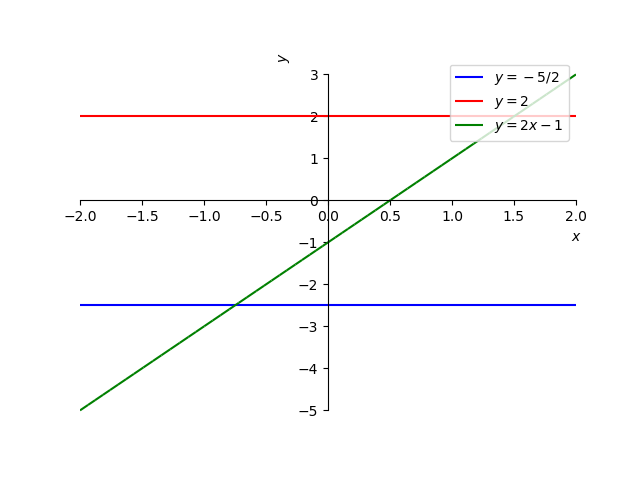
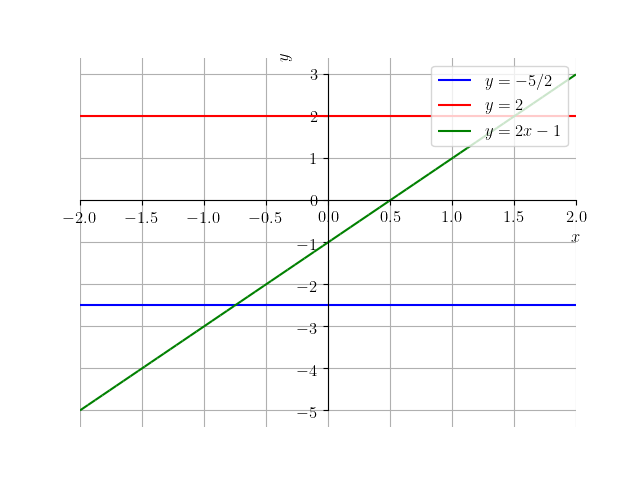
*: material sobre função afim

diff --git a/src/PreCalculo/cap_funcao/cap_funcao.tex b/src/PreCalculo/cap_funcao/cap_funcao.tex
@@ -418,7 +418,7 @@ sendo $m$ e $b$ parâmetros\footnote{números reais.} dados. O parâmetro $m$ é
 
 Quando $m=0$, temos uma \emph{função constante} $f(x) = b$. Esta tem domínio $(-\infty, \infty)$ e imagem $\{b\}$. Quando $b=0$, temos uma \pmb{função linear} $f(x)=mx$, cujo domínio é $(-\infty, \infty)$ e imagem é $(-\infty, \infty)$.
 
-Por outro lado, toda função linear com $m\neq 0$ tem $(-\infty, \infty)$ como domínio e imagem.
+De forma geral, toda função linear com $m\neq 0$ tem $(-\infty, \infty)$ como domínio e imagem.
 
 \begin{ex}\label{ex:funafim}
   A Figura \ref{fig:ex_funafim} mostra esboços dos gráficos das funções afins $f(x)=-5/2$, $f(x)=2$ e $f(x)=2x-1$.
@@ -431,16 +431,25 @@ Por outro lado, toda função linear com $m\neq 0$ tem $(-\infty, \infty)$ como 
   \end{figure}
 
   \ifispython
-  Com o \sympy, podemos plotar os gráficos destas funções com os seguintes comandos:
-\begin{verbatim}
-plot(-5/2,(x,-2,2))
-plot(2,(x,-2,2))
-plot(2*x-1,(x,-2,2))
-\end{verbatim}
+  Com o {\sympy}, podemos plotar o gráfico mostrado na Figura \ref{fig:ex_funafim} com o seguinte código:
+  \begin{lstlisting}
+    from sympy import *
+    x = Symbol('x')
+    p = plot(-5/2, (x,-2,2), line_color="blue", show=False)
+    q = plot(2, (x,-2,2), line_color="red", show=False)
+    p.extend(q)
+    q = plot(2*x-1, (x,-2,2), line_color="green", show=False)
+    p.extend(q)
+    p[0].label = "$y=-5/2$"
+    p[1].label = "$y=2$"
+    p[2].label = "$y=$"
+    p.legend = True
+    p.show() 
+  \end{lstlisting}
   \fi
 \end{ex}
 
-O lugar geométrico do gráfico de uma função afim é uma reta (ou linha). O coeficiente angular $m$ controla a inclinação da reta em relação ao eixo $x$\footnote{eixo das abscissas}. Quando $m=0$, temos uma reta horizontal. Quando $m>0$ temos uma reta com inclinação positiva (crescente) e, quando $m<0$ temos uma reta com inclinação negativa.
+O lugar geométrico do gráfico de uma função afim é uma reta (ou linha). O coeficiente angular $m$ controla a \emph{inclinação da reta} em relação ao eixo $x$\footnote{eixo das abscissas}. Quando $m=0$, temos uma reta horizontal. Quando $m>0$ temos uma reta com inclinação positiva (crescente) e, quando $m<0$ temos uma reta com inclinação negativa.
 
 \begin{ex}\label{ex:funlinear}
   A Figura \ref{fig:ex_funlinear} mostra esboços dos gráficos das funções lineares $f_1(x)=\frac{1}{2}x$, $f_2(x) = x$, $f_3(x) = 2x$, $f_4(x)=-2x$, $f_5(x)=-x$ e $f_6(x)=-\frac{1}{2}x$.
@@ -453,7 +462,7 @@ O lugar geométrico do gráfico de uma função afim é uma reta (ou linha). O c
   \end{figure}
 
   \ifispython
-  Verifique, plotando os gráficos com o \sympy!
+  Verifique, plotando os gráficos com o {\sympy}!
 \end{ex}
 
 \begin{figure}[H]
@@ -463,9 +472,10 @@ O lugar geométrico do gráfico de uma função afim é uma reta (ou linha). O c
   \label{fig:declividade}
 \end{figure}
 
-A inclinação de uma reta é, normalmente, medida pelo ângulo de declividade (veja a Figura \ref{fig:declividade}). Para definirmos este ângulo, sejam $(x_0, y_0)$ e $(x_1, y_1)$, $x_0<x_1$, pontos sobre uma dada reta, gráfico da função afim $f(x)=mx+b$. O ângulo de declividade (ou, simplesmente, a declividade) da reta é, por definição, o ângulo formado pelo segmento que parte de $(x_0, y_0)$ e termina em $(x_1, y_0)$ e o segmente que parte de $(x_0, y_0)$ e termina em $(x_1, y_1)$. Denotando este ângulo por $\theta$, temos
+A inclinação de uma reta é, normalmente, medida pelo \emph{ângulo de declividade} (veja a Figura \ref{fig:declividade}). Para definirmos este ângulo, sejam $(x_0, y_0)$ e $(x_1, y_1)$, $x_0<x_1$, pontos sobre uma dada reta, gráfico da função afim $f(x)=mx+b$. O ângulo de declividade (ou, simplesmente, a declividade) da reta é, por definição, o ângulo formado pelo segmento que parte de $(x_0, y_0)$ e termina em $(x_1, y_0)$ e o segmento que parte de $(x_0, y_0)$ e termina em $(x_1, y_1)$. Denotando este ângulo por $\theta$, temos
 \begin{align}
-  \tg\theta &= \frac{y_1-y_0}{x_1-x_0}\\
+  \tg\theta &= \frac{\text{cateto oposto}}{\text{cateto adjacente}}\\
+            &= \frac{y_1-y_0}{x_1-x_0}\\
             &= \frac{mx_1+b-(mx_0+b)}{x_1-x_0}\\
             &= m,
 \end{align}
@@ -477,29 +487,22 @@ Quaisquer dois pontos $(x_0, y_0)$ e $(x_1, y_1)$, com $x_0\neq x_1$, determinam
   mx_1 + b &= y_1
 \end{align}
 Subtraindo a primeira equação da segunda, obtemos
-\begin{equation}
-  m(x_0-x_1) = y_0-y_1 \Rightarrow m = \frac{y_0-y_1}{x_0-x_1}.
-\end{equation}
+\begin{gather}
+  m(x_0-x_1) = y_0-y_1\\
+  m = \frac{y_0-y_1}{x_0-x_1}
+\end{gather}
 Daí, substituindo o valor de $m$ na primeira equação do sistema, obtemos
-\begin{equation}
-  \frac{y_0-y_1}{x_0-x_1}x_0 + b = y_0 \Rightarrow b = -\frac{y_0-y_1}{x_0-x_1}x_0 + y_0.
-\end{equation}
-Ou seja, a expressão da função linear (equação da reta) que passa pelos pontos $(x_0, y_0)$ e $(x_1, y_1)$ é
+\begin{gather}
+  \frac{y_0-y_1}{x_0-x_1}x_0 + b = y_0 \\
+  b = -\frac{y_0-y_1}{x_0-x_1}x_0 + y_0
+\end{gather}
+Ou seja, a expressão da função linear (\emph{equação da reta}) que passa pelos pontos $(x_0, y_0)$ e $(x_1, y_1)$ é
 \begin{equation}\label{eq:funafim_eq}
   y = \underbrace{\frac{y_0-y_1}{x_0-x_1}}_{m}(x-x_0) + y_0.
 \end{equation}
 
-\subsection*{Exercícios resolvidos}
-
-\begin{flushright}
-  [Vídeo] | [Áudio] | \href{https://phkonzen.github.io/notas/contato.html}{[Contatar]}
-\end{flushright}
-
-\begin{exeresol}
-Trace o esboço da reta que representa o gráfico da função afim $f(x) = -x-1$.  
-\end{exeresol}
-\begin{resol}
-  Para esboçar o gráfico de uma função afim, basta traçarmos a reta que passa por quaisquer dois pontos distintos de seu gráfico. Por exemplo, no caso da função $f(x) = -x -1$, temos
+\begin{ex}
+  Vamos traçar o esboço da reta que representa o gráfico da função afim $f(x) = -x-1$. Para tanto, basta traçarmos a reta que passa por quaisquer dois pontos distintos de seu gráfico. Por exemplo, no caso da função $f(x) = -x -1$, temos
   \begin{center}
   \begin{tabular}[H]{r|c}
     $x$ & $y = -x-1$\\\hline
@@ -517,18 +520,17 @@ Assim sendo, marcamos os pontos $(-1, 0)$ e $(1, -2)$ em um plano cartesiano e t
 \end{figure}
 
 \ifispython
-Com o \sympy, podemos plotar o gráfico da função $f(x)=-x-1$ com o seguinte comando:
-\begin{verbatim}
-plot(-x-1,(x,-3,3))
-\end{verbatim}
+Plote o gráfico com o {\sympy} e compare com o seu esboço!
 \fi
-\end{resol}
+\end{ex}
 
-\begin{exeresol}
-  Determine a função afim $f(x) = mx + b$, cujo gráfico contém os pontos $(1, -1)$ e $(2, 1)$.
-\end{exeresol}
-\begin{resol}
-  Vamos usar \eqref{eq:funafim_eq}. Para tanto, tomamos $(x_0, y_0) = (1, -1)$ e $(x_1, y_1) = (2, 1)$. Desta forma, temos
+\begin{ex}
+  Vamos determinar a função afim $f(x) = mx + b$, cujo gráfico contém os pontos $(1, -1)$ e $(2, 1)$. Para tanto, vamos usar \eqref{eq:funafim_eq}. Tomamos
+  \begin{gather}
+    (x_0, y_0) = (1, -1)\\
+    (x_1, y_1) = (2, 1)
+  \end{gather}
+  Então, substituindo em \eqref{eq:funafim_eq} temos
   \begin{equation}
     m = \frac{y_1 - y_0}{x_1 - x_0} = \frac{1 - (-1)}{2 - 1} = 2.
   \end{equation}
@@ -541,52 +543,20 @@ plot(-x-1,(x,-3,3))
   Ou seja, a função afim desejada é $f(x) = 2x - 3$.
 
   \ifispython
-  Com o \sympy, podemos resolver este exercício utilizando o seguinte código\footnote{Veja a Observação \label{obs:cap_funafom_python}.}:
+  Com o {\sympy}, podemos resolver este exercício utilizando o seguinte código:
 \begin{verbatim}
+from sympy import *
+x = Symbol('x')
 x0 = 1
 y0 = -1
-
 x1 = 2
 y1 = 1
-
 m = (y1-y0)/(x1-x0)
-
-print(m*(x-x0) + y0)
+f = Lambda(x, m*(x-x0) + y0)
+print(f"f(x) = {f(x)}")
 \end{verbatim}
   \fi
-\end{resol}
-
-\begin{exeresol}
-  Verifique se as retas $y = -x - 1$ e $y = 2x - 3$ se interceptam e, caso afirmativo, determine o ponto de interseção.
-\end{exeresol}
-\begin{resol}
-  As retas dadas são gráficos das funções afins $f(x) = -x - 1$ e $g(x) = 2x - 3$. Como os coeficientes angulares de $f(x)$ e $g(x)$ são diferentes, temos que as retas têm ângulos de declividade diferentes e, portanto, são retas concorrentes\footnote{Retas concorrentes são retas que se interceptam em um ponto.}.
-
-  Agora, vamos determinar o ponto de interseção. No ponto de interseção dos gráficos de $f(x)$ e $g(x)$ deve ocorrer que $f(x) = g(x)$. Segue
-  \begin{align}
-    f(x)=g(x) &\Rightarrow -x-1 = 2x-3\\
-              &\Rightarrow 3x = 2\\
-              &\Rightarrow x = \frac{2}{3}.
-  \end{align}
-  Assim, temos que as retas se interceptam no ponto de abscissa $x = 2/3$. Para determinar a ordenada deste ponto, podemos usar qualquer uma das funções. Usando $f(x)$ temos
-  \begin{align}
-    y = f\left(\frac{2}{3}\right) = 2\frac{2}{3} - 3 = \frac{4 - 9}{3} = -\frac{5}{3}.
-  \end{align}
-  Concluímos que as retas se interceptam no ponto $(\frac{2}{3}, -\frac{5}{3})$.
-
-    \ifispython
-    Com o \sympy, podemos resolver este exercício utilizando o seguinte código\footnote{Veja a Observação \label{obs:cap_funafom_python}.}:
-\begin{verbatim}
-f = lambda x: -x-1
-g = lambda x: 2*x-3
-
-px = solve(f(x)-g(x))[0]
-py = f(px)
-
-print(px, py)
-\end{verbatim}
-  \fi
-\end{resol}
+\end{ex}
 
 \subsection*{Exercícios}
 
@@ -594,7 +564,19 @@ print(px, py)
   [Vídeo] | [Áudio] | \href{https://phkonzen.github.io/notas/contato.html}{[Contatar]}
 \end{flushright}
 
-\begin{ex}
+\begin{exer}
+  Determine o domínio e a imagem de cada uma das seguintes funções afins:
+  \begin{enumerate}[a)]
+  \item $f(x) = -100x + 1$
+  \item $y = -\pi$
+  \item $h(v) = 2 + x$
+  \end{enumerate}
+\end{exer}
+\begin{resp}
+  a) $D=\mathbb{R}$; $I=\mathbb{R}$; b) $D=\mathbb{R}$, $I=\{\pi\}$; c) $D=\mathbb{R}$; $I=\mathbb{R}$
+\end{resp}
+
+\begin{exer}
   Faça um esboço do gráfico de cada uma das seguintes funções:
   \begin{enumerate}[a)]
   \item $f_1(x) = x$
@@ -602,21 +584,30 @@ print(px, py)
   \item $f_3(x) = x-1$
   \item $f_4(x) = -x+1$
   \end{enumerate}
-\end{ex}
+\end{exer}
 
-\begin{ex}
+\begin{exer}
   Determine a função afim $f(x)=mx+b$, cujo gráfico contém os pontos $(-2, 1)$ e $(0, -2)$.
-\end{ex}
+\end{exer}
 \begin{resp}
   $f(x) = -\frac{3}{2}x - 2$
 \end{resp}
 
-\begin{ex}
-  Determine o ponto de interseção dos gráficos das funções afins $f(x) = 2x + 1$ e $g(x) = 2x -1$.
-\end{ex}
+\begin{exer}
+  Verifique se as retas $y = -x - 1$ e $y = 2x - 3$ se interceptam e, caso afirmativo, determine o ponto de interseção.
+\end{exer}
 \begin{resp}
-  não há.
+  $(2/3,-5/3)$
 \end{resp}
+
+\begin{exer}
+  Determine o ponto de interseção dos gráficos das funções afins $f(x) = 2x + 1$ e $g(x) = 2x -1$.
+\end{exer}
+\begin{resp}
+  não há
+\end{resp}
+
+
 
 \section{Função potência}\label{cap_funcao_sec_funpot}
 

diff --git a/src/PreCalculo/cap_funcao/dados/fig_ex_funafim/fig_ex_funafim.py b/src/PreCalculo/cap_funcao/dados/fig_ex_funafim/fig_ex_funafim.py
@@ -1,4 +1,13 @@
+import matplotlib.pyplot as plt
 from sympy import *
+
+plt.rcParams.update({
+     "text.usetex": True,
+     "font.family": "serif",
+     "font.size": 12
+     })
+
+
 var('x')
 
 p=plot(-5/2,(x,-2,2),line_color='blue',show=False)
@@ -13,3 +22,7 @@ p.legend=True
 p.xlabel="$x$"
 p.ylabel="$y$"
 p.save('fig_ex_funafim.png')
+fig = p._backend.fig
+ax = fig.axes[0]
+ax.grid()
+fig.savefig('fig_ex_funafim.png')

diff --git a/src/PreCalculo/cap_funcao/dados/fig_ex_funlinear/fig_ex_funlinear.py b/src/PreCalculo/cap_funcao/dados/fig_ex_funlinear/fig_ex_funlinear.py
@@ -1,4 +1,13 @@
+import matplotlib.pyplot as plt
 from sympy import *
+
+plt.rcParams.update({
+     "text.usetex": True,
+     "font.family": "serif",
+     "font.size": 12
+     })
+
+
 var('x')
 
 p=plot(0.5*x,(x,-2,2),line_color='blue',show=False)

diff --git a/src/PreCalculo/cap_funcao/dados/fig_exeresol_funafim_grafico/main.py b/src/PreCalculo/cap_funcao/dados/fig_exeresol_funafim_grafico/main.py
@@ -1,4 +1,13 @@
+import matplotlib.pyplot as plt
 from sympy import *
+
+plt.rcParams.update({
+     "text.usetex": True,
+     "font.family": "serif",
+     "font.size": 12
+     })
+
+
 var('x')
 
 p=plot(-x-1,(x,-3,3),line_color='blue',show=False)
